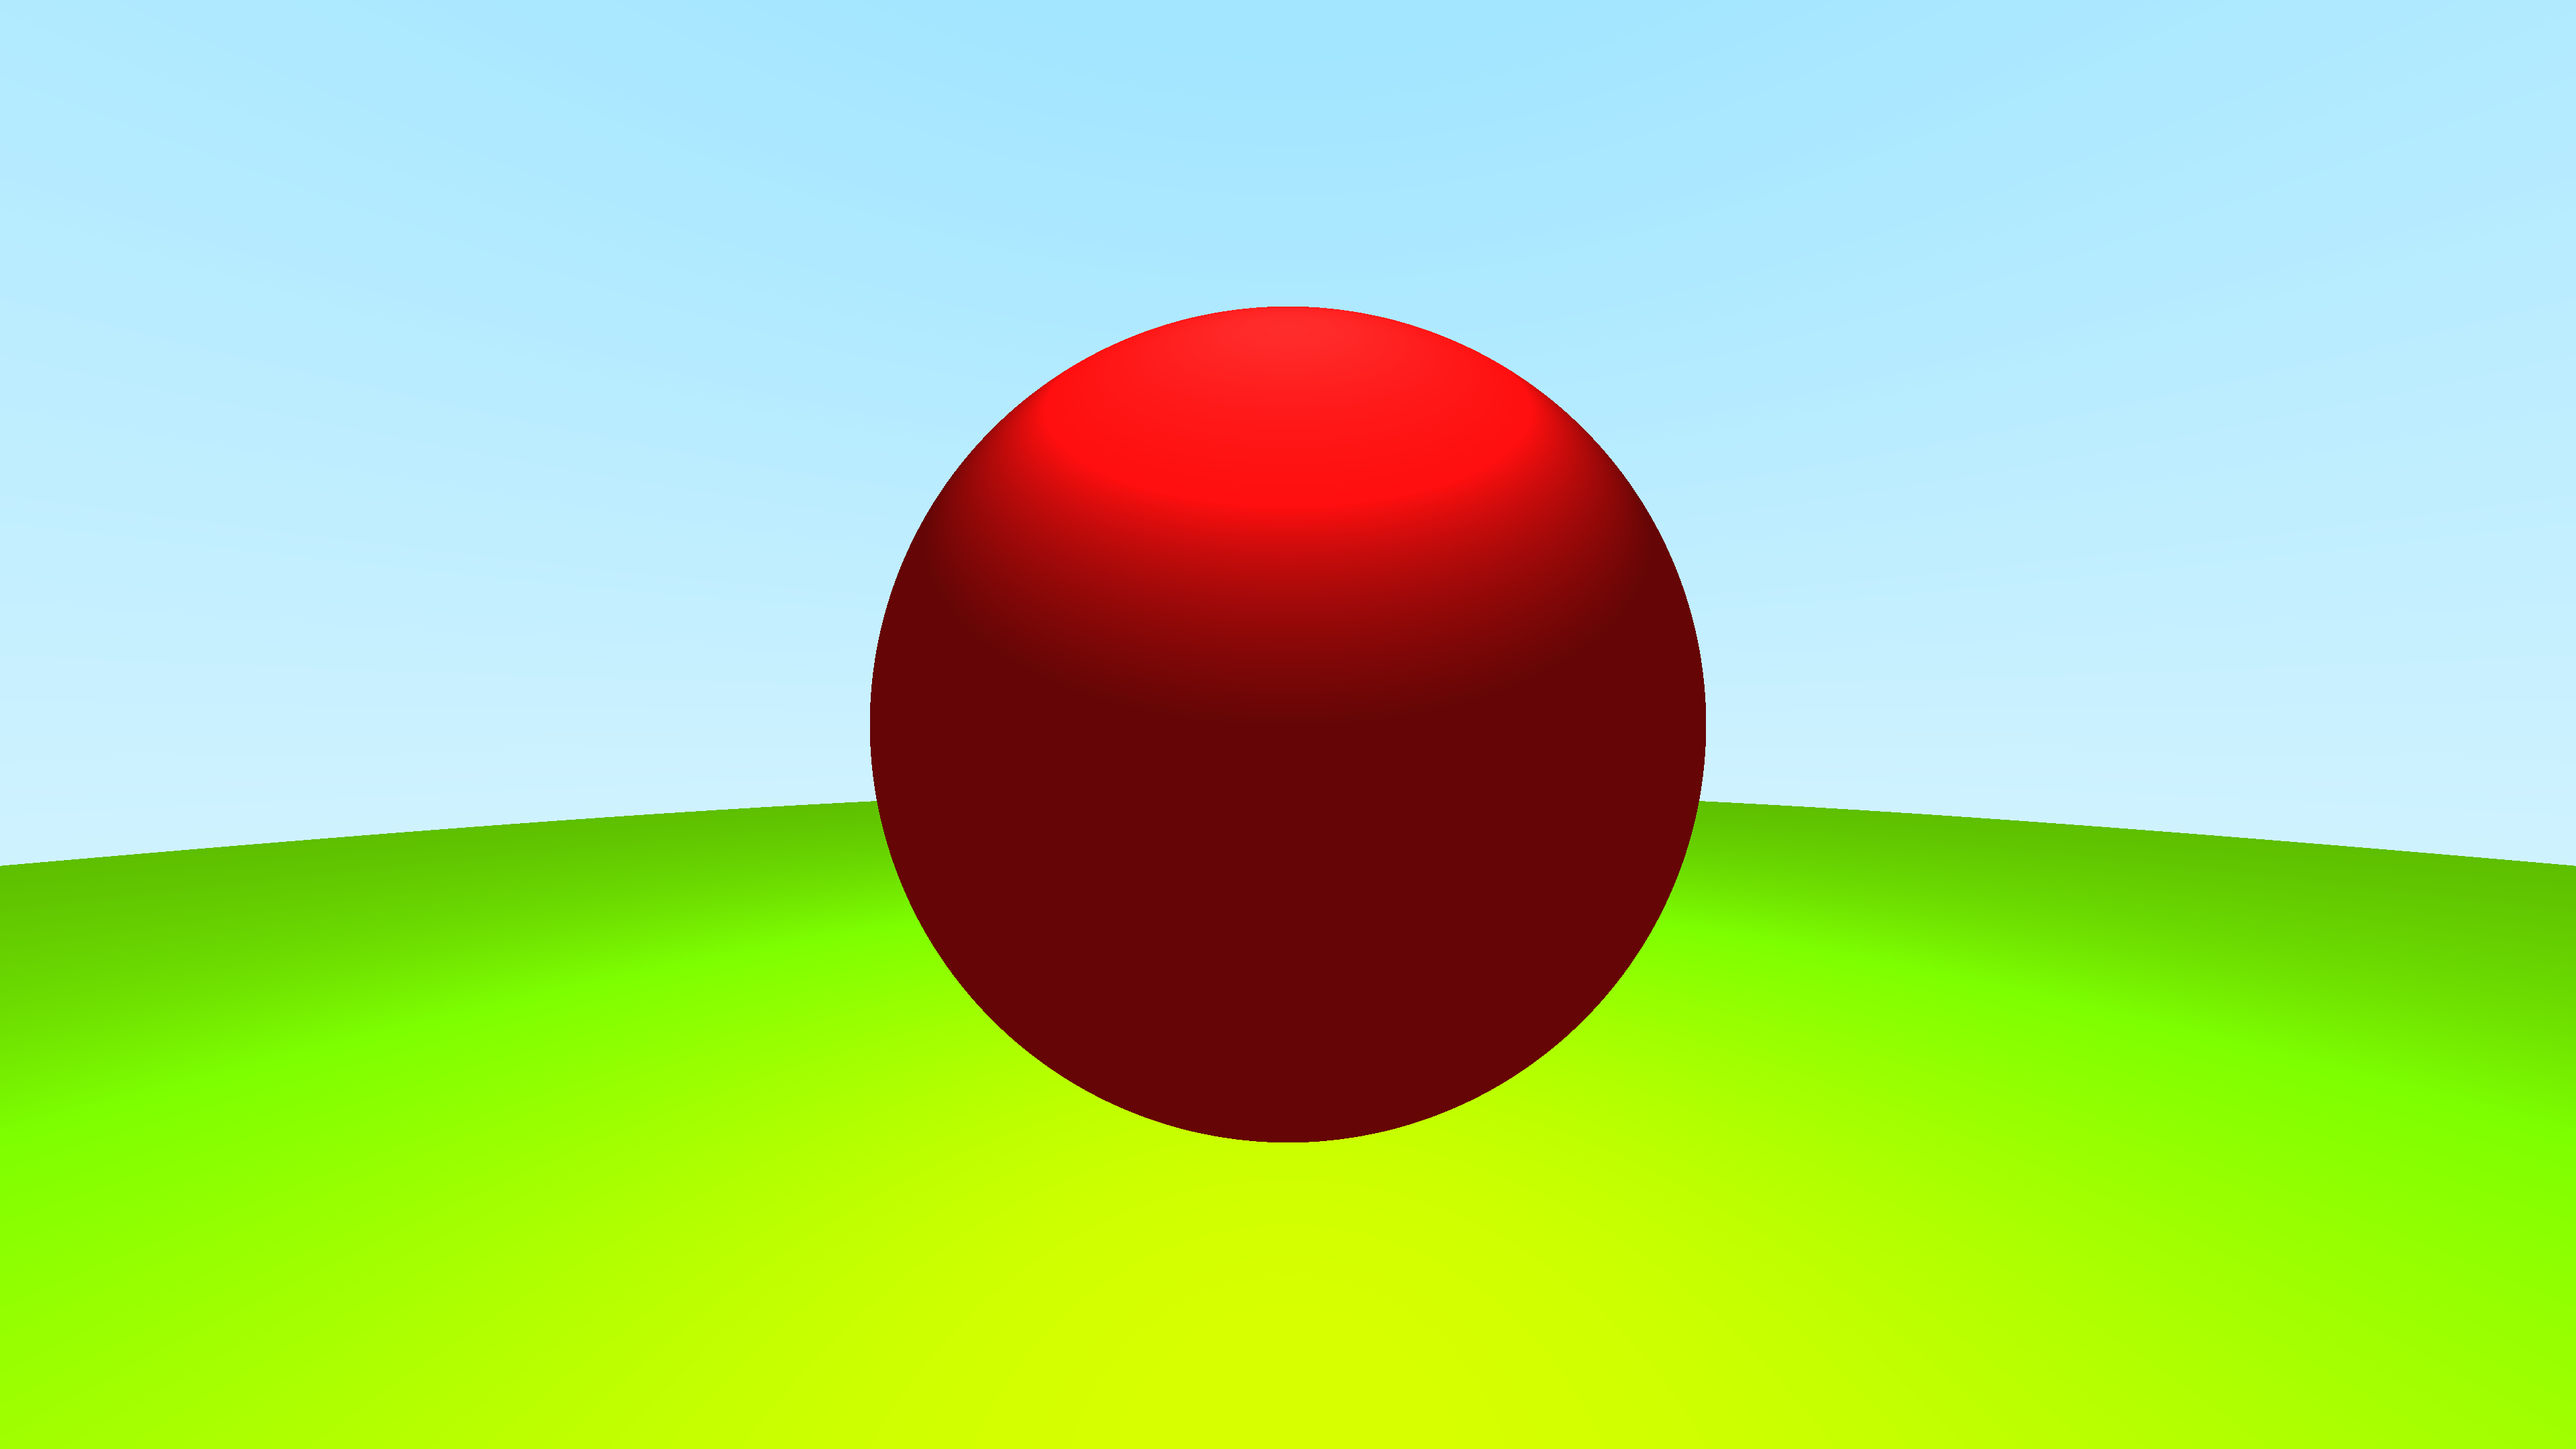
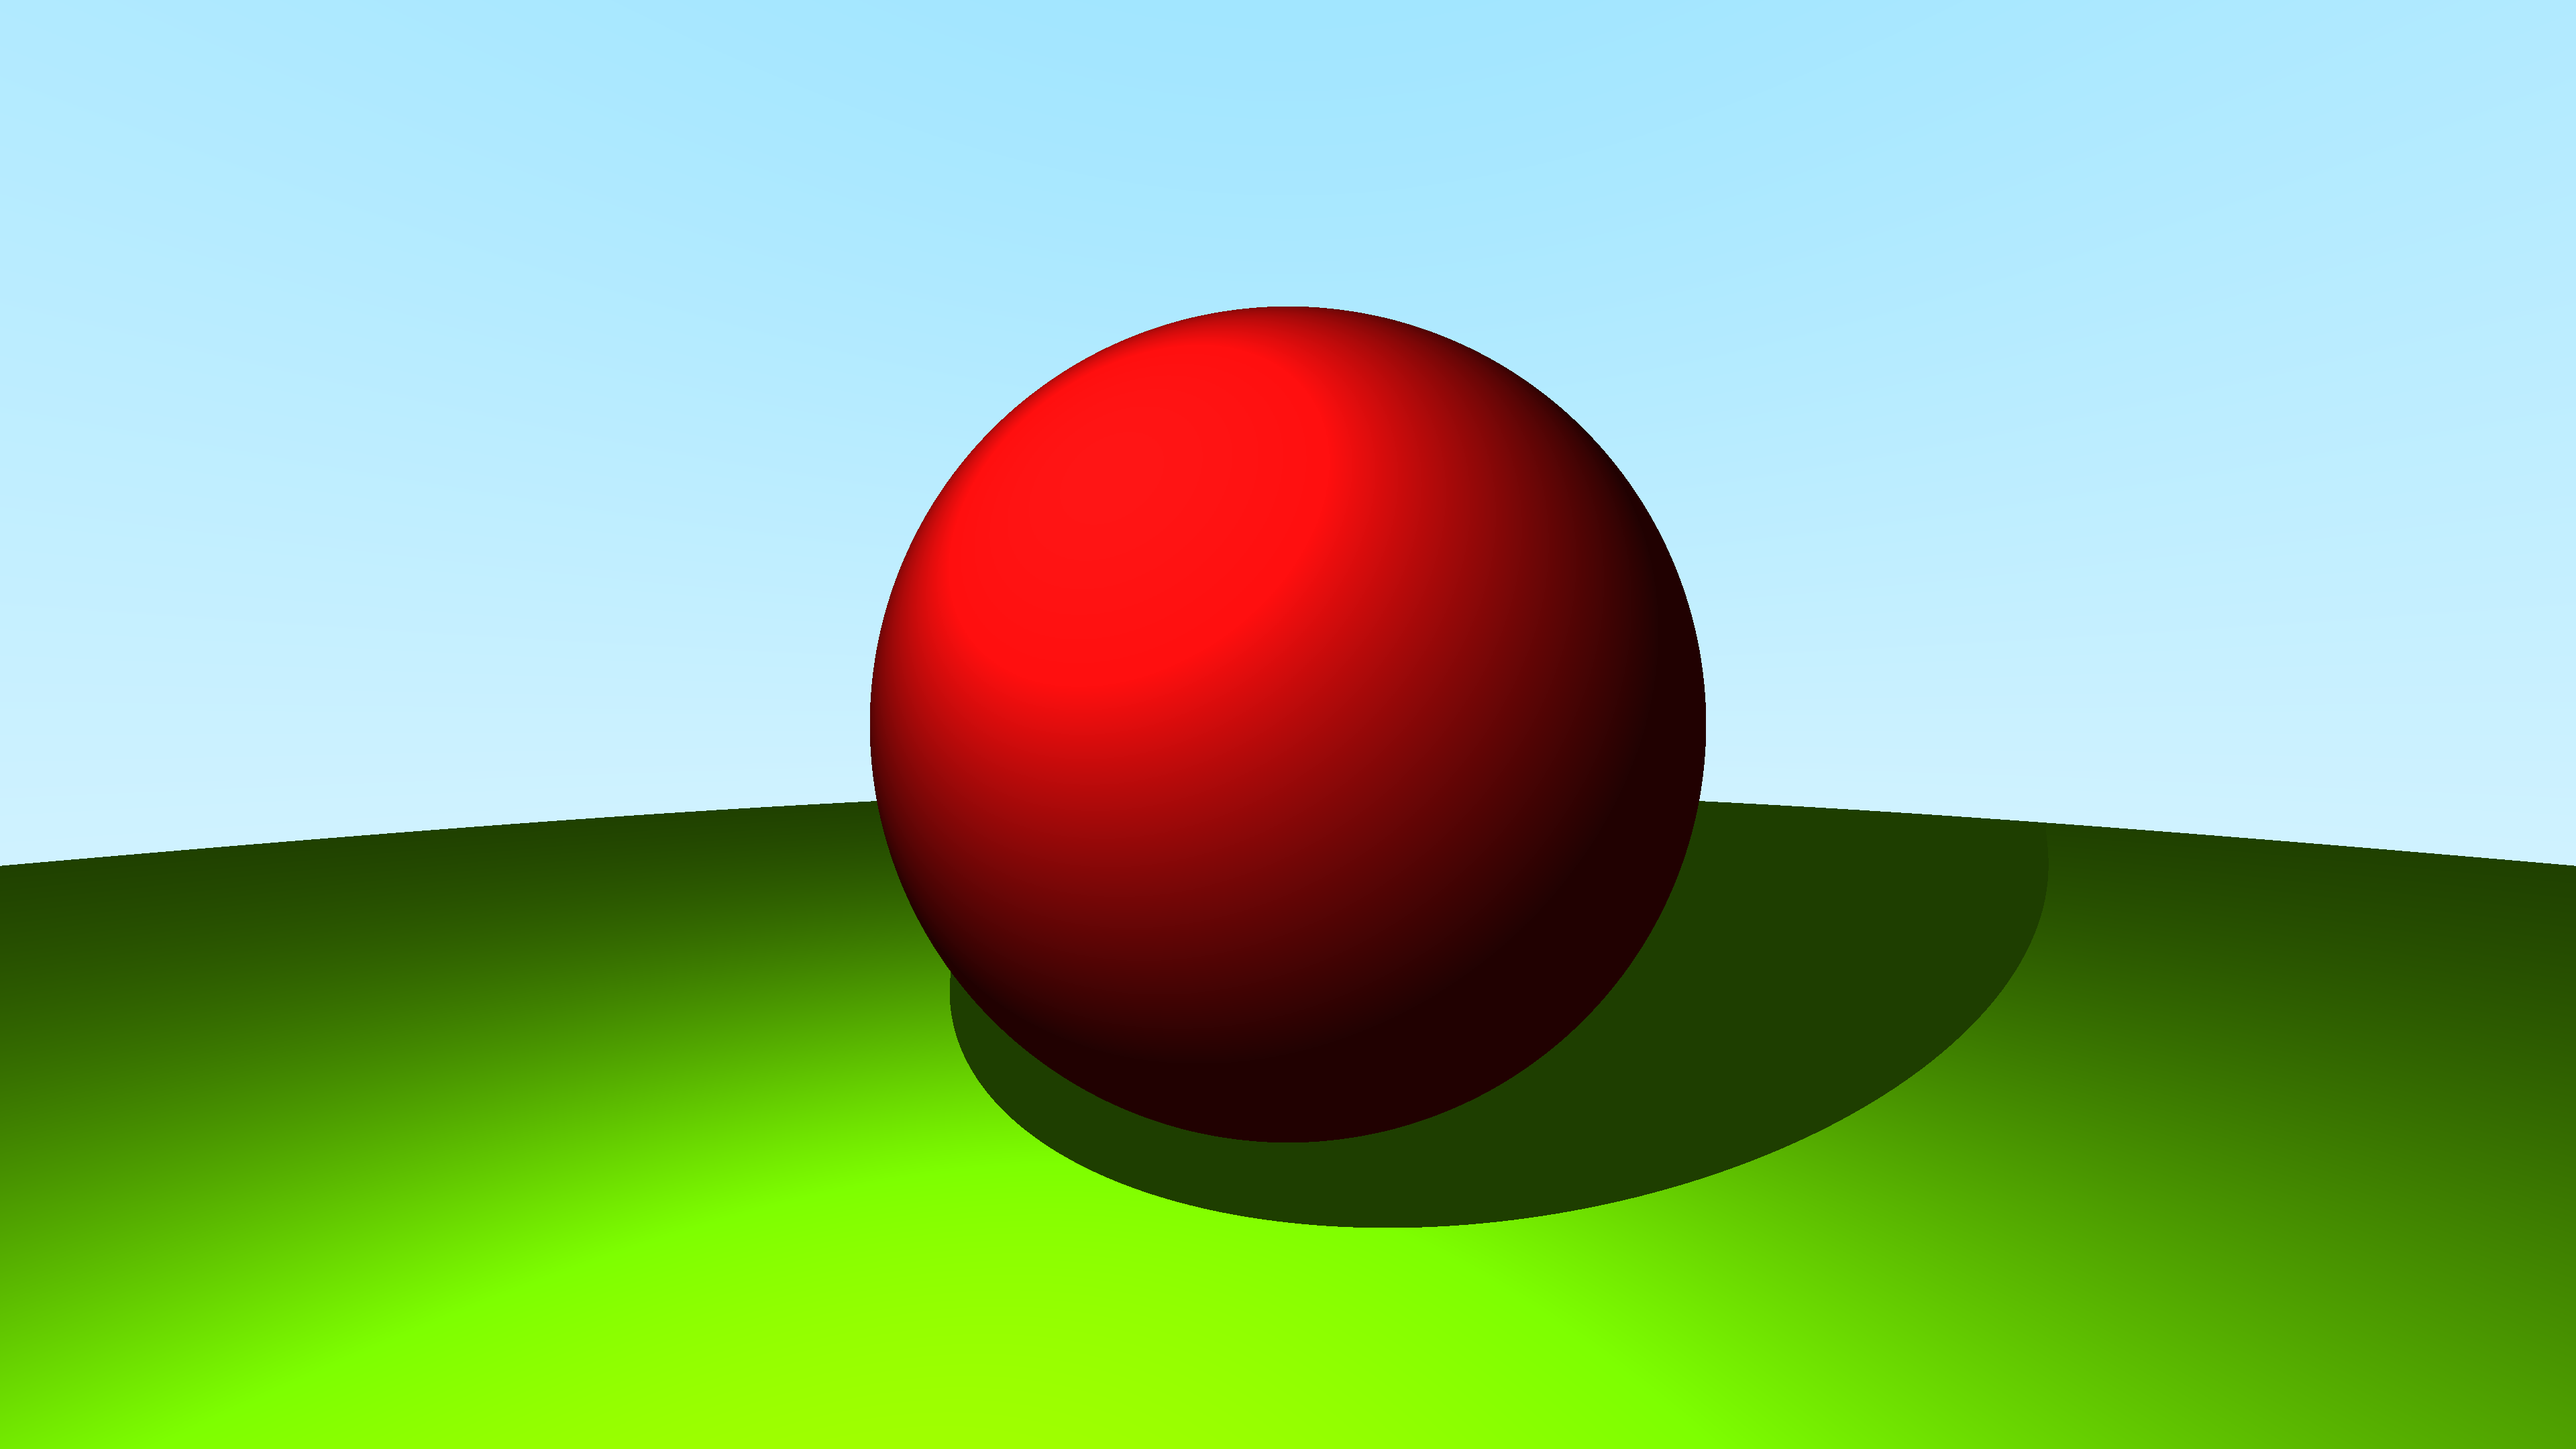
add shadowing. move light

diff --git a/src/tracer/ray.rs b/src/tracer/ray.rs
@@ -16,32 +16,35 @@ impl Ray {
             Some(h) => {
                 /* point where ray meets sphere */
                 let p = self.at(h.t);
+
                 /* sphere normal*/
                 let n = (p - h.sphere.origin).normalize();
 
                 /* vector to light from hit point */
                 let l = scene.light - p;
+
                 /* l mirrored around sphere normal */
                 let r = p - 2.0 * n * p.dot(n).max(0.0);
-
-                let color = h.sphere.color;
-                let spec_coeff = Vec3::splat(0.9);
-                let ambient_coeff = Vec3::splat(0.75);
-                let q = 0.25;
-                let phong = color*ambient_coeff + (n.dot(l).max(0.0) * color
-                    + r.dot(-p).max(0.0).powf(q) * spec_coeff)
-                    / l.length_squared();
 
                 let ray_to_light = Ray {
                     origin: p,
                     dir: l
                 };
 
+                let color = h.sphere.color;
+                let spec_coeff = Vec3::splat(0.9);
+                let ambient_coeff = Vec3::splat(0.25);
+                let q = 0.005;
+                let phong = color*ambient_coeff;
+
 
                 if scene.hit_shadow(&ray_to_light) {
+                    phong
+                } else {
+                    phong + (n.dot(l).max(0.0) * color
+                             + r.dot(-p).max(0.0).powf(q) * spec_coeff)
+                        / l.length_squared()
                 }
-
-                phong
             }
             None => {
                 let u = self.dir.normalize();

diff --git a/src/tracer/scene.rs b/src/tracer/scene.rs
@@ -36,7 +36,7 @@ impl Scene {
 
 pub fn def() -> Scene {
     Scene {
-        light: Vec3::new(-0.0, 0.5, -0.5),
+        light: Vec3::new(-0.25, 0.35, -0.2),
         objects: vec![
             Sphere{
                 origin: Vec3::new(0.0, -100.5, -1.0),
